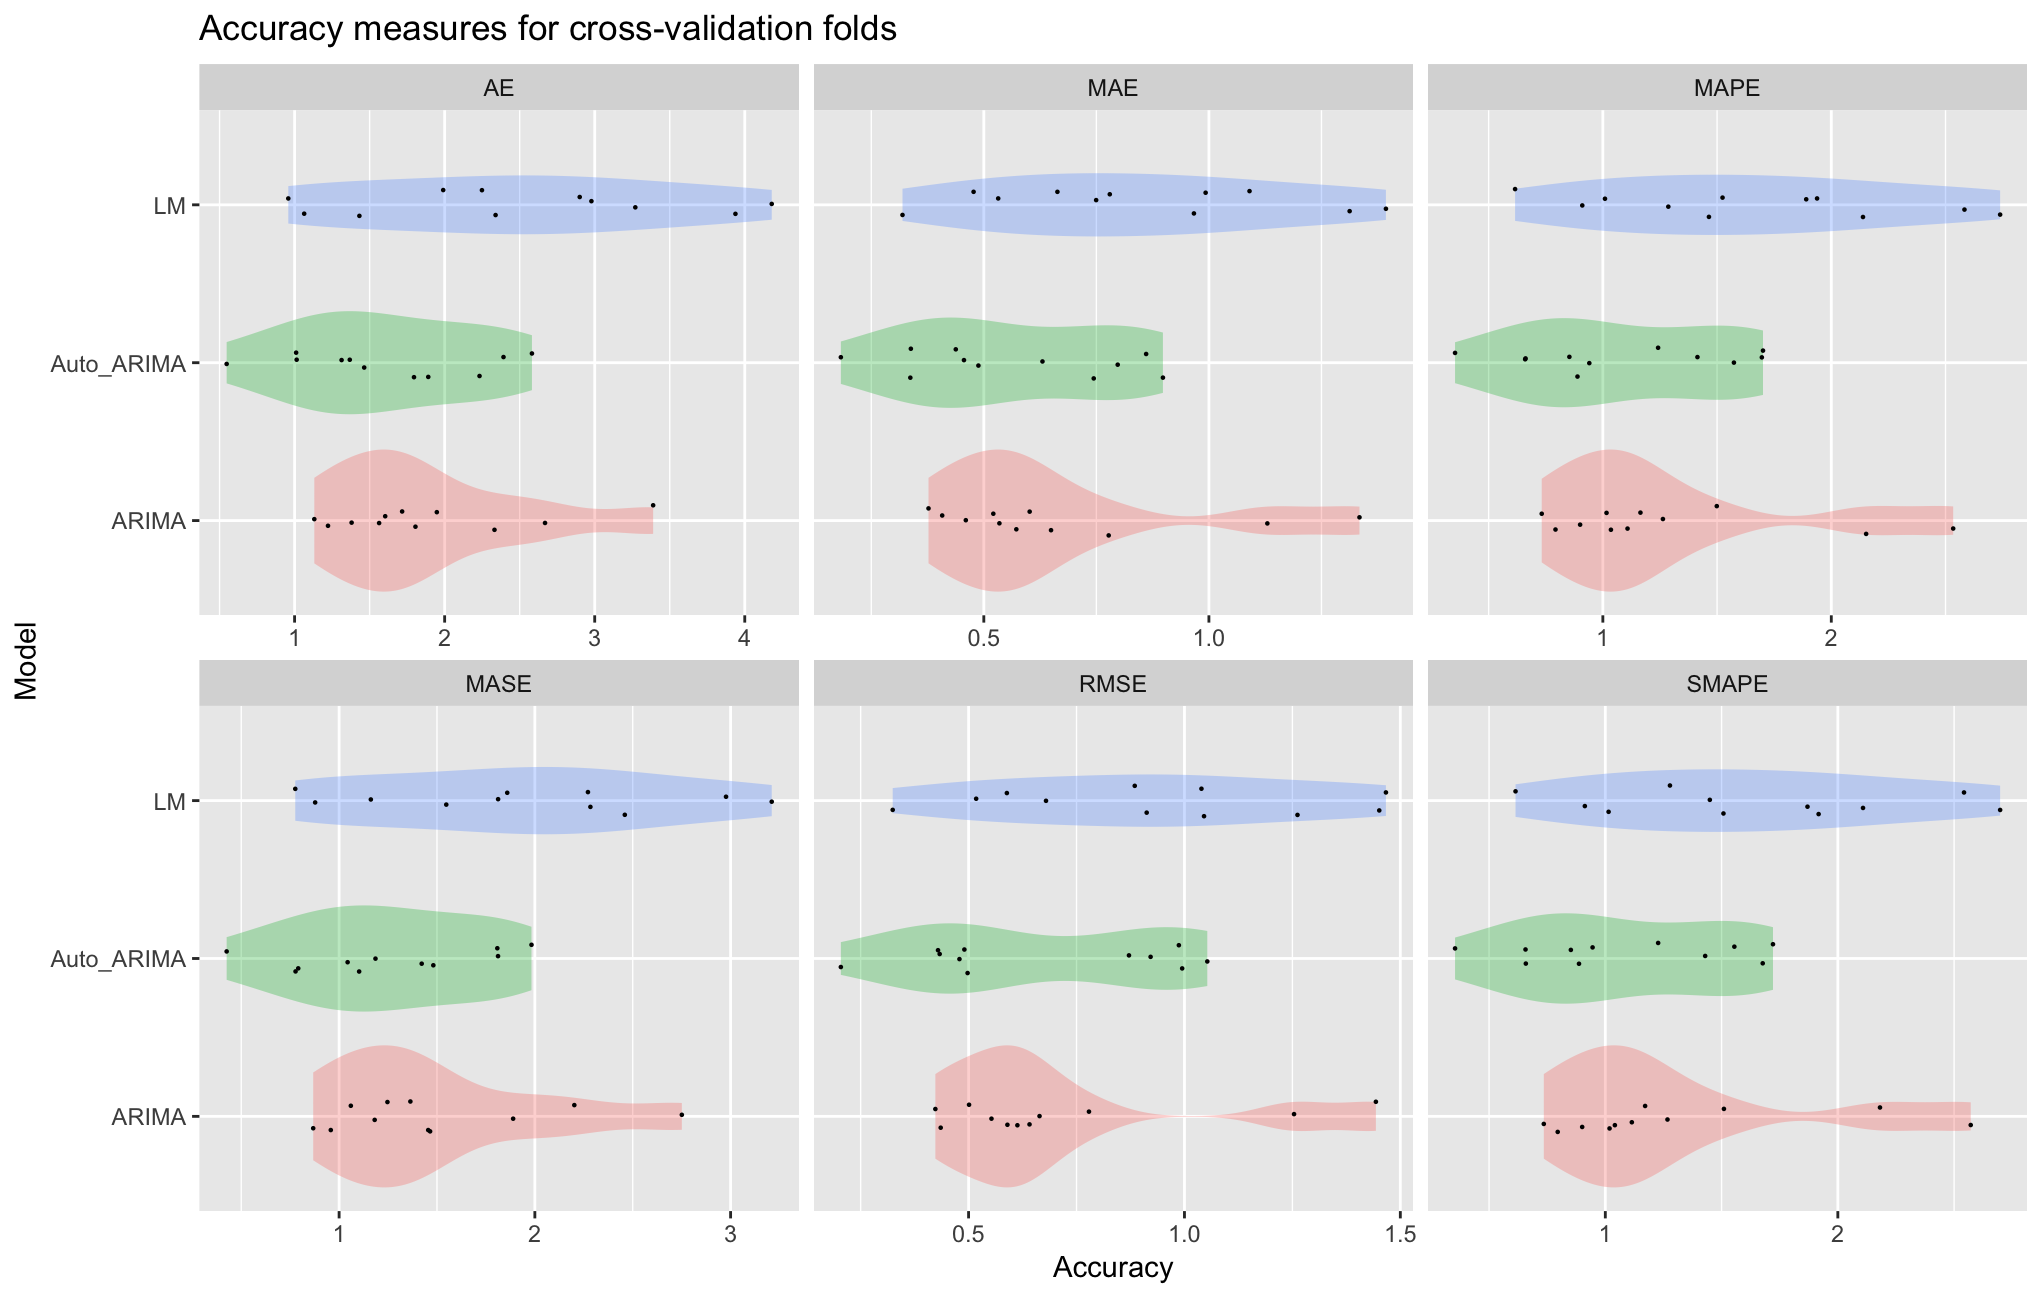
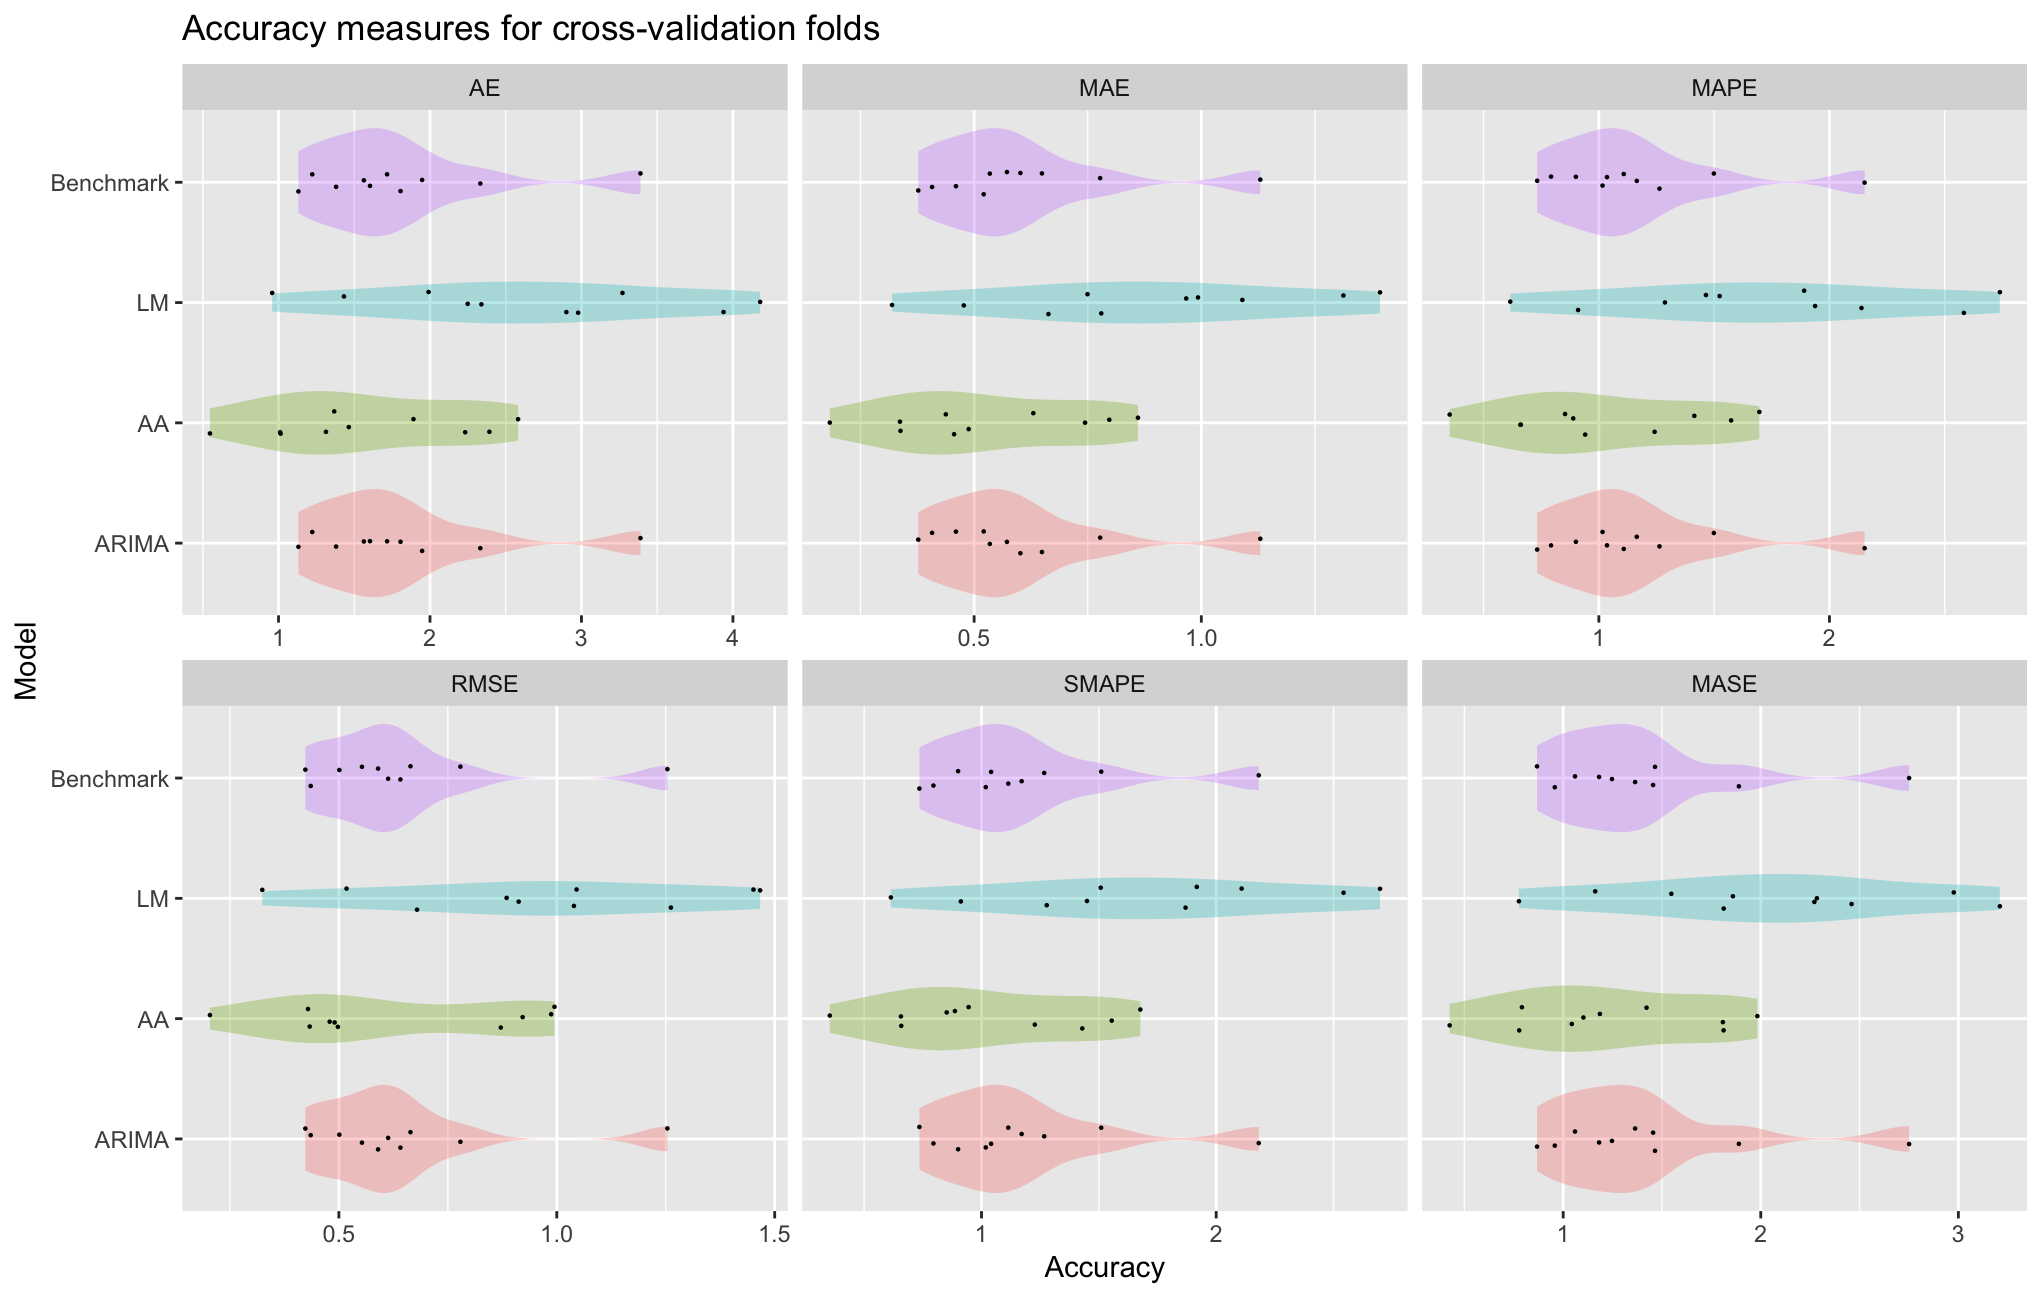
Update README

diff --git a/README.md b/README.md
@@ -80,19 +80,6 @@ iris %>%
   assess()
 ```
 
-Gives a list containing accuracy measures in the `accuracy` attribute. The element `accuracy$average_accuracy` contains the following output:
-
-|Model |Statistic |        AE|       MAE|      MAPE|      RMSE|     SMAPE|
-|:-----|:---------|---------:|---------:|---------:|---------:|---------:|
-|LM1   |Mean      | 3.7950136| 0.2530009| 4.3516055| 0.3106914| 4.3318653|
-|LM2   |Mean      | 5.2279834| 0.3485322| 5.8394677| 0.4438729| 5.8149103|
-|RF1   |Mean      | 4.6498967| 0.3099931| 5.3175795| 0.3797383| 5.2790324|
-|RF2   |Mean      | 4.4009540| 0.2933969| 5.0240645| 0.3626210| 4.9876589|
-|LM1   |Variance  | 0.2791718| 0.0012408| 0.3347331| 0.0020096| 0.3032631|
-|LM2   |Variance  | 2.0361152| 0.0090494| 2.8960415| 0.0101204| 2.5389126|
-|RF1   |Variance  | 0.4620071| 0.0020534| 0.7933737| 0.0032892| 0.6486826|
-|RF2   |Variance  | 0.6232808| 0.0027701| 1.0119045| 0.0047078| 0.8710760|
-
 ### Time-series
 
 This approach can be adopted for time-series forecasting. If `data_type` is set to "ts", time-series cross-validation will be carried out. Additionally, the Mean Absolute Scaled Error (MASE) is also calculated. The time-series cross-validation parameters are:
@@ -102,7 +89,7 @@ This approach can be adopted for time-series forecasting. If `data_type` is set 
 * `shift` is the length of time to move forward.
 * `ts` is the name of the variable containing time-series data.
 
-Note that in `predict` a bit of work needs to be done to ensure `Arima()` returns a numeric vector of predictions. Since the number of rows in the final fold may be less than the horizon value of three, we specify `h = nrow(validation)` rather than setting it to 3.
+Note that in `predict` a bit of work needs to be done to ensure `Arima()` returns a numeric vector of predictions.
 
 __Warning: have not tested this for ts variables that are of type POSIX or date yet.__
 
@@ -110,19 +97,20 @@ __Warning: have not tested this for ts variables that are of type POSIX or date 
 require(forecast)
 require(lubridate)
 
-data <- data.frame(Date = dmy_hms("1/1/2015 00:00:00") + hours(1:(24*30)),
-                   Value = arima.sim(list(1, 0, 1), 24*30))
+data <- data.frame(Date = dmy(paste("1/1/", as.numeric(time(nhtemp)))),
+                   Temperature = as.numeric(nhtemp))
 
 data %>% 
-  validatr(y = Value, ts = Date, data_type = "ts", 
-           start = dmy_hms("5/1/2015 00:00:00"), horizon = "1 day",
-           shift = "12 hours") %>% 
-  model(ARIMA = Arima(train$Value),
-        Auto_ARIMA = auto.arima(train$Value),
-        LM = lm(Value ~ Date, data = train)) %>% 
+  validatr(y = Temperature, ts = Date, data_type = "ts", 
+           start = dmy("1/1/1960"), horizon = "3 years",
+           shift = "1 year") %>% 
+  model(ARIMA = Arima(train$Temperature),
+        AA = auto.arima(train$Temperature),
+        LM = lm(Temperature ~ Date, data = train)) %>% 
   predict(ARIMA = as.numeric(forecast(ARIMA, h = nrow(validation))$mean),
-          Auto_ARIMA = as.numeric(forecast(Auto_ARIMA, h = nrow(validation))$mean),
-          LM = predict(LM, newdata = validation)) %>% 
+          AA = as.numeric(forecast(AA, h = 3)$mean),
+          LM = predict(LM, newdata = validation),
+          Benchmark = mean(train$Temperature)) %>% 
   assess() %>% 
   autoplot()
 ```
